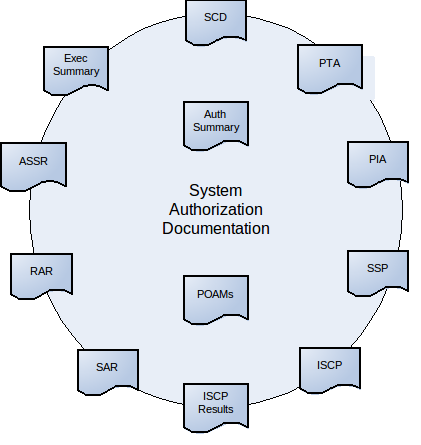
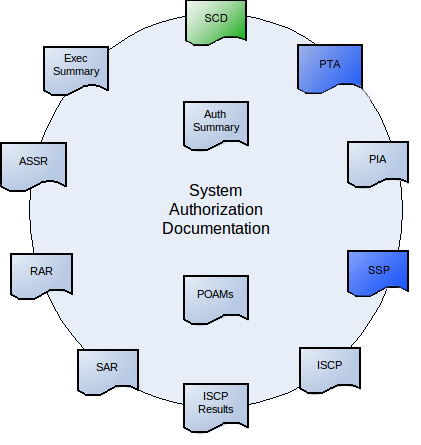
OFJ-1573 SA Demo
Update documentation workflow image and add link on SCD icon.

Changed region(s): [[0.8029, 0.5551, 0.9881, 0.6719], [0.7102, 0.0876, 0.8646, 0.2337], [0.4323, 0.0, 0.5867, 0.1169]]

diff --git a/application/modules/default/controllers/SystemController.php b/application/modules/default/controllers/SystemController.php
@@ -481,6 +481,7 @@ class SystemController extends Fisma_Zend_Controller_Action_Object
         }
 
         $this->view->generateScdButton = $generateScdButton;
+        $this->view->generateScdLink = '/system/generate-scd/format/pdf/id/' . $id;
 
         // Get all documents for current system, sorted alphabetically on the document type name
         $documentQuery = Doctrine_Query::create()
